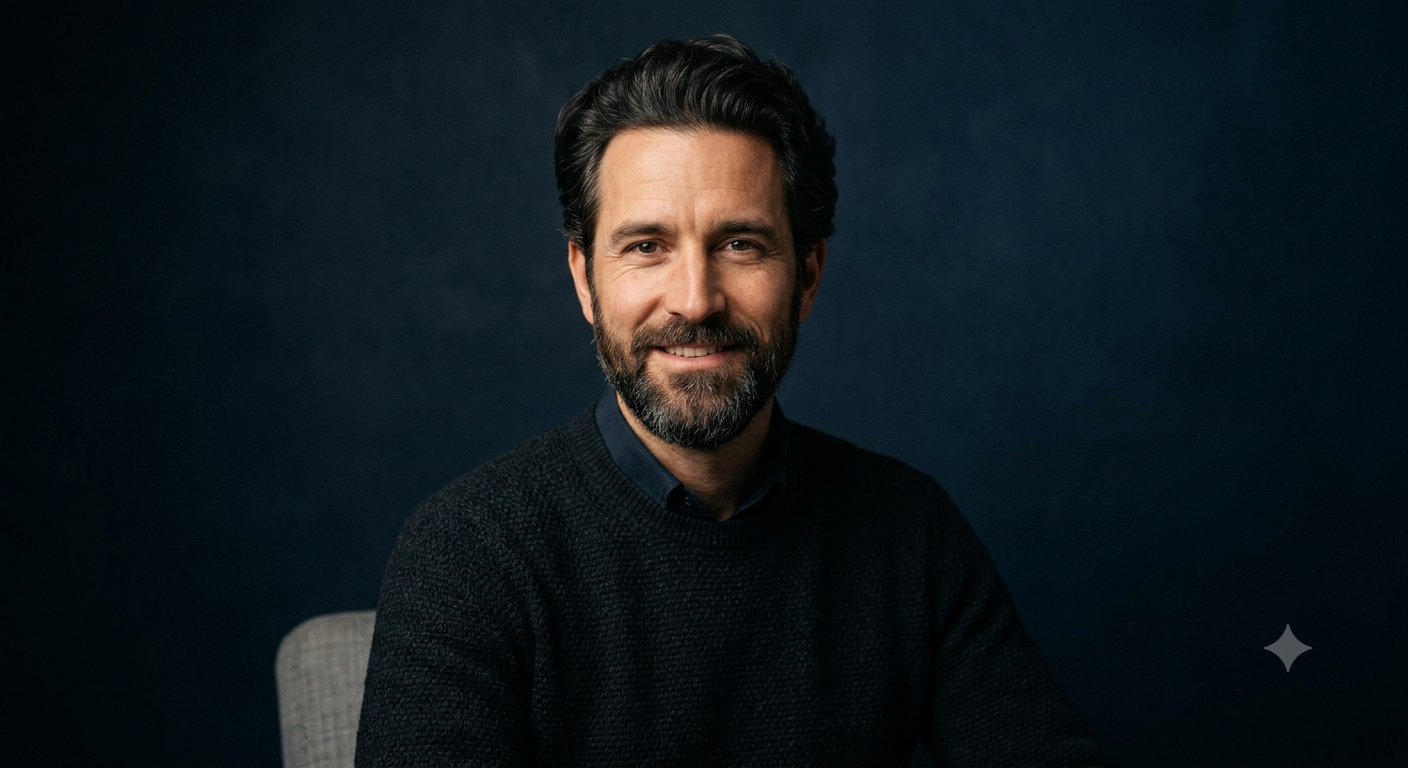
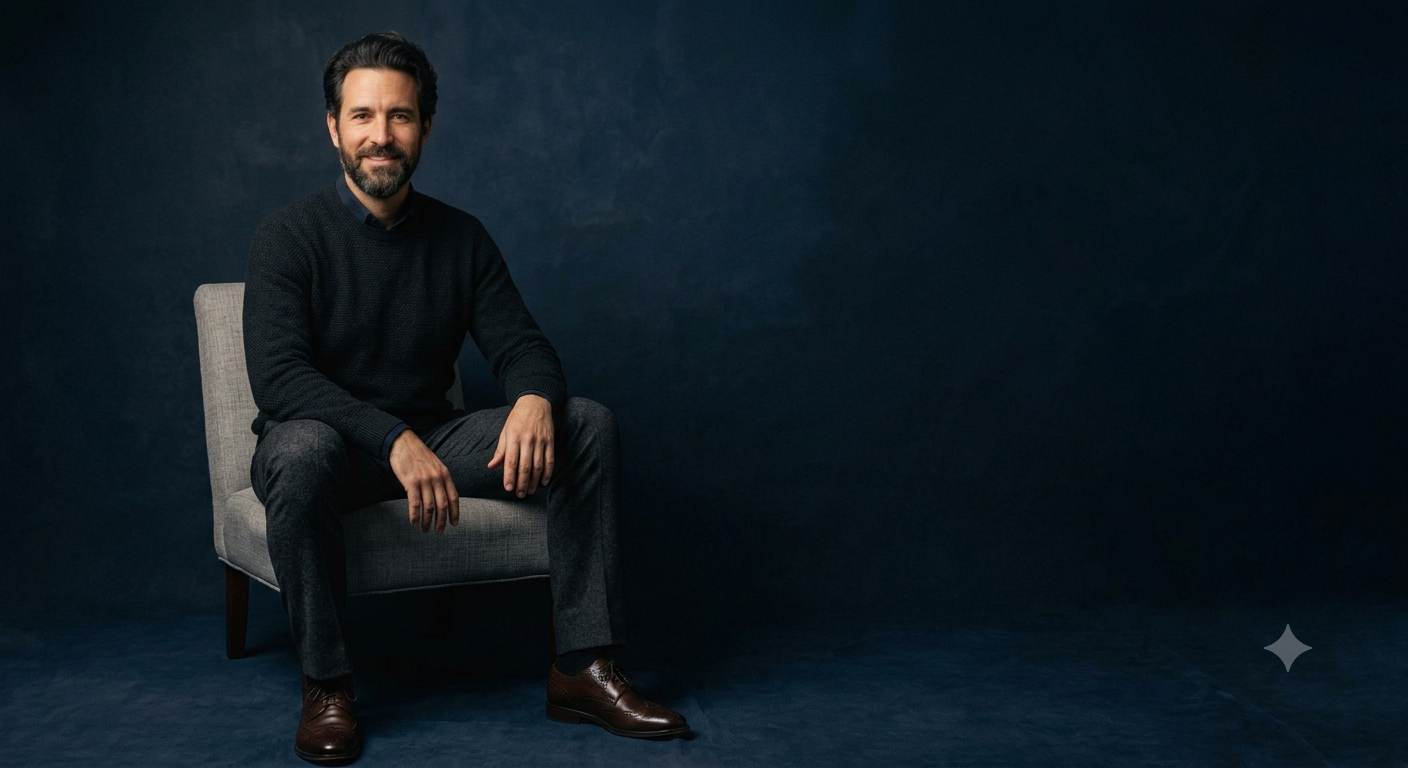
Fix Closing CTA background photo: use Figma's actual crop
cta-bg.png was a tight, centered head-and-shoulders crop, so at
background-position:center it landed the subject's face directly
behind the centered heading text. Figma's Closing CTA section (node
1:351) uses a wide banner photo with the subject seated on the left
third and open dark space on the right for the text to sit clearly.
Downloaded the actual raw source image Figma references and swapped
it in, updated background-position to left center to match the
composition. Opacity (0.48), navy-deep base color, and all text/
button styling were already correct from the earlier design-QA pass.

Changed region(s): [[0.0, 0.0, 1.0, 1.0]]

diff --git a/assets/css/styles.css b/assets/css/styles.css
@@ -919,7 +919,7 @@ iframe:focus-visible {
   inset: 0;
   background-image: url("../images/cta-bg.png");
   background-size: cover;
-  background-position: center 20%;
+  background-position: left center;
   opacity: 0.48;
 }
 .mol-cta .mol-container { position: relative; }
